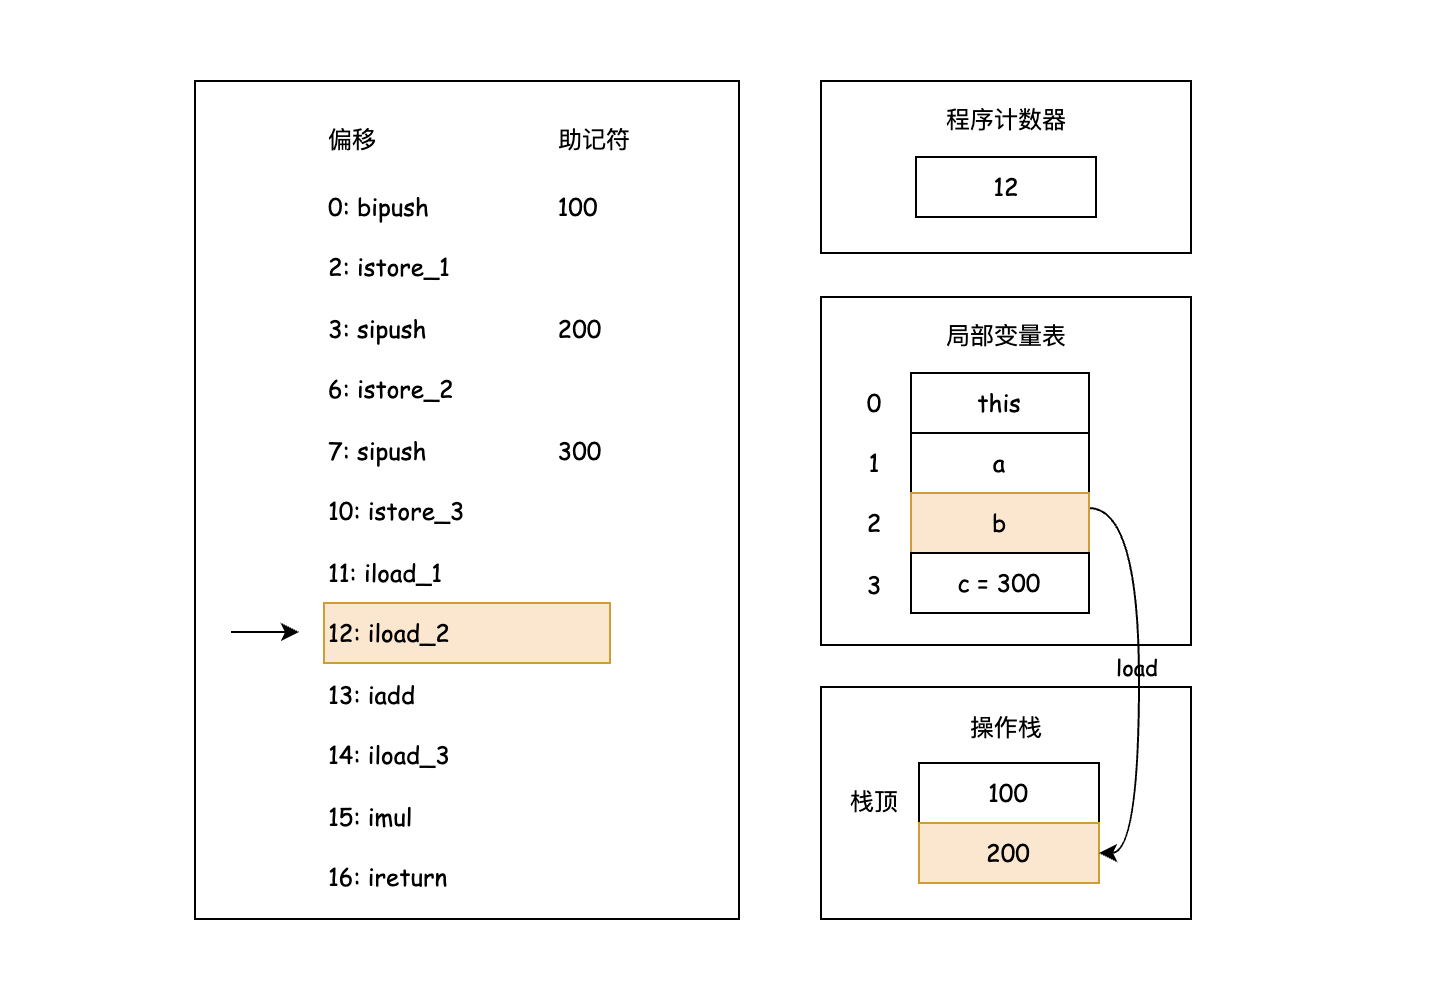
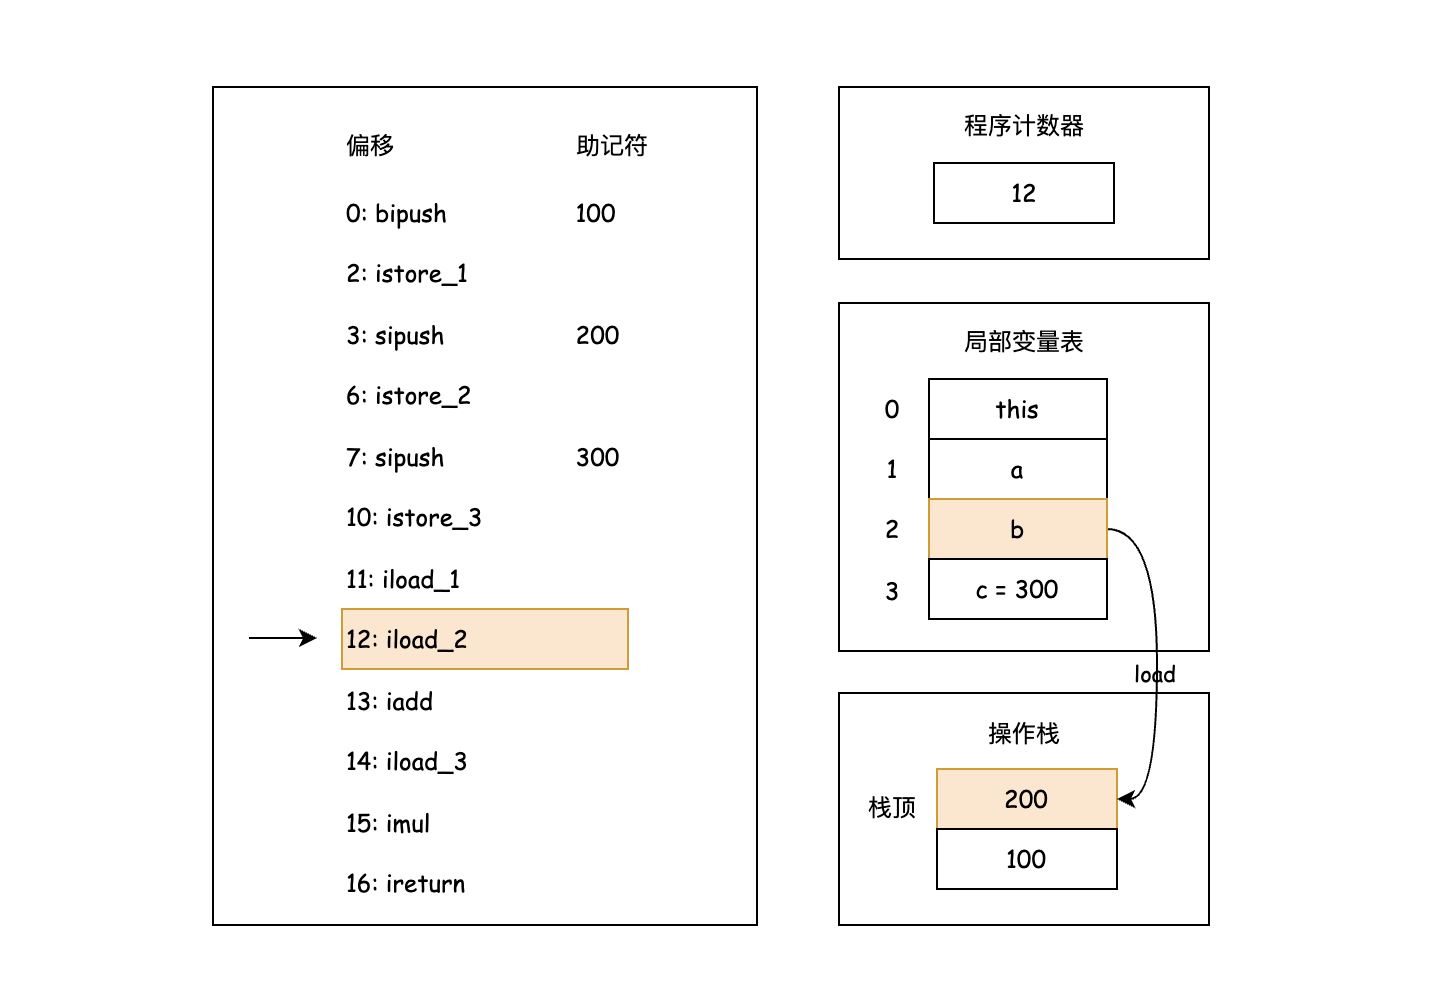
update jvm bytecode

diff --git a/source/_posts/blog/cornerstone-of-irrelevance-preliminary-study-of-java-bytecode-technology.md b/source/_posts/blog/cornerstone-of-irrelevance-preliminary-study-of-java-bytecode-technology.md
@@ -557,7 +557,7 @@ private int calculate();
          11       6     3     c   I
 ```
 
-从上面的字节码可以看到，这段计算逻辑总共包含了 4 个本地变量，分别是：`this`、`a`、`b` 和 `c`，执行计算逻辑时，多次调用了 `push` 和 `store` 指令。
+从字节码中可以看到，这段计算逻辑总共包含了 4 个本地变量，分别是：`this`、`a`、`b` 和 `c`，执行计算逻辑时，多次调用了 `push` 和 `store` 指令，下面我们将针对字节码中的每个指令进行逐个分析。
 
 #### 执行 bipush 100 指令
 
@@ -581,7 +581,7 @@ private int calculate();
 
 ![执行 istore_2 指令](cornerstone-of-irrelevance-preliminary-study-of-java-bytecode-technology/bytecode-execute-progress-istore_2.png)
 
-然后继续执行 `istore_2` 指令，该指令会将栈顶 int 型数值存入第三个本地变量，即上图所示的 b 变量。
+JVM 继续执行 `istore_2` 指令，该指令会将栈顶 int 型数值存入第三个本地变量，即上图所示的 b 变量。
 
 #### 执行 sipush 300 指令
 
@@ -593,7 +593,7 @@ private int calculate();
 
 ![执行 istore_3 指令](cornerstone-of-irrelevance-preliminary-study-of-java-bytecode-technology/bytecode-execute-progress-istore_3.png)
 
-根据程序计数器指示的位置 10，JVM 会执行 istore_3 指令，该指令会将栈顶 int 型数值存入第四个本地变量，即存入变量 c 的槽位。
+根据程序计数器指示的位置 10，JVM 会执行 `istore_3` 指令，该指令会将栈顶 int 型数值存入第四个本地变量，即存入变量 c 的位置。
 
 #### 执行 iload_1 指令
 
@@ -609,31 +609,27 @@ private int calculate();
 
 #### 执行 iadd 指令
 
-TODO
+![执行 iadd 指令](cornerstone-of-irrelevance-preliminary-study-of-java-bytecode-technology/bytecode-execute-progress-iadd.png)
 
-![执行 iadd 指令](cornerstone-of-irrelevance-preliminary-study-of-java-bytecode-technology/image-20240727181105545.png)
-
-
+程序计数器 13 位置指向了 `iadd` 指令，该指令表示将栈顶两 int 型数值相加并将结果压入栈顶，上图展示了将栈顶的 100 和 200 相加，并将结果 300 压入栈顶的过程。
 
 #### 执行 iload_3 指令
 
-![执行 iload_3 指令](cornerstone-of-irrelevance-preliminary-study-of-java-bytecode-technology/image-20240727181406574.png)
+![执行 iload_3 指令](cornerstone-of-irrelevance-preliminary-study-of-java-bytecode-technology/bytecode-execute-progress-iload_3.png)
 
-
+程序计数器 14 位置指向了 `iload_3` 指令，该指令表示将第四个 int 型本地变量推至栈顶，上图展示了将栈顶的 100 和 200 相加，并将结果 300 压入栈顶的过程。
 
 #### 执行 imul 指令
 
 ![执行 imul 指令](cornerstone-of-irrelevance-preliminary-study-of-java-bytecode-technology/bytecode-execute-progress-imul.png)
 
-
+程序计数器 15 位置指向了 `imul` 指令，该指令表示将栈顶两 int 型数值相乘并将结果压入栈顶，上图展示了将栈顶的 300 和 300 相乘，并将结果 90000 压入栈顶的过程。
 
 #### 执行 ireturn 指令
 
 ![执行 ireturn 指令](cornerstone-of-irrelevance-preliminary-study-of-java-bytecode-technology/bytecode-execute-progress-ireturn.png)
 
-
-
-TODO
+程序计数器 16 位置指向了 `ireturn` 指令，该指令表示从当前方法返回 int，上图展示了将栈顶的 90000 返回给调用逻辑的过程。到这里，我们就详细介绍了示例程序计算逻辑执行时，程序计数器、局部变量表以及操作栈之间的变化，虽然这个示例较为简单，但是它已经很好地展示了字节码执行的过程。如果大家感兴趣，可以尝试采用上面的方式来理解更复杂的业务逻辑。
 
 ## 常用字节码指令
 
